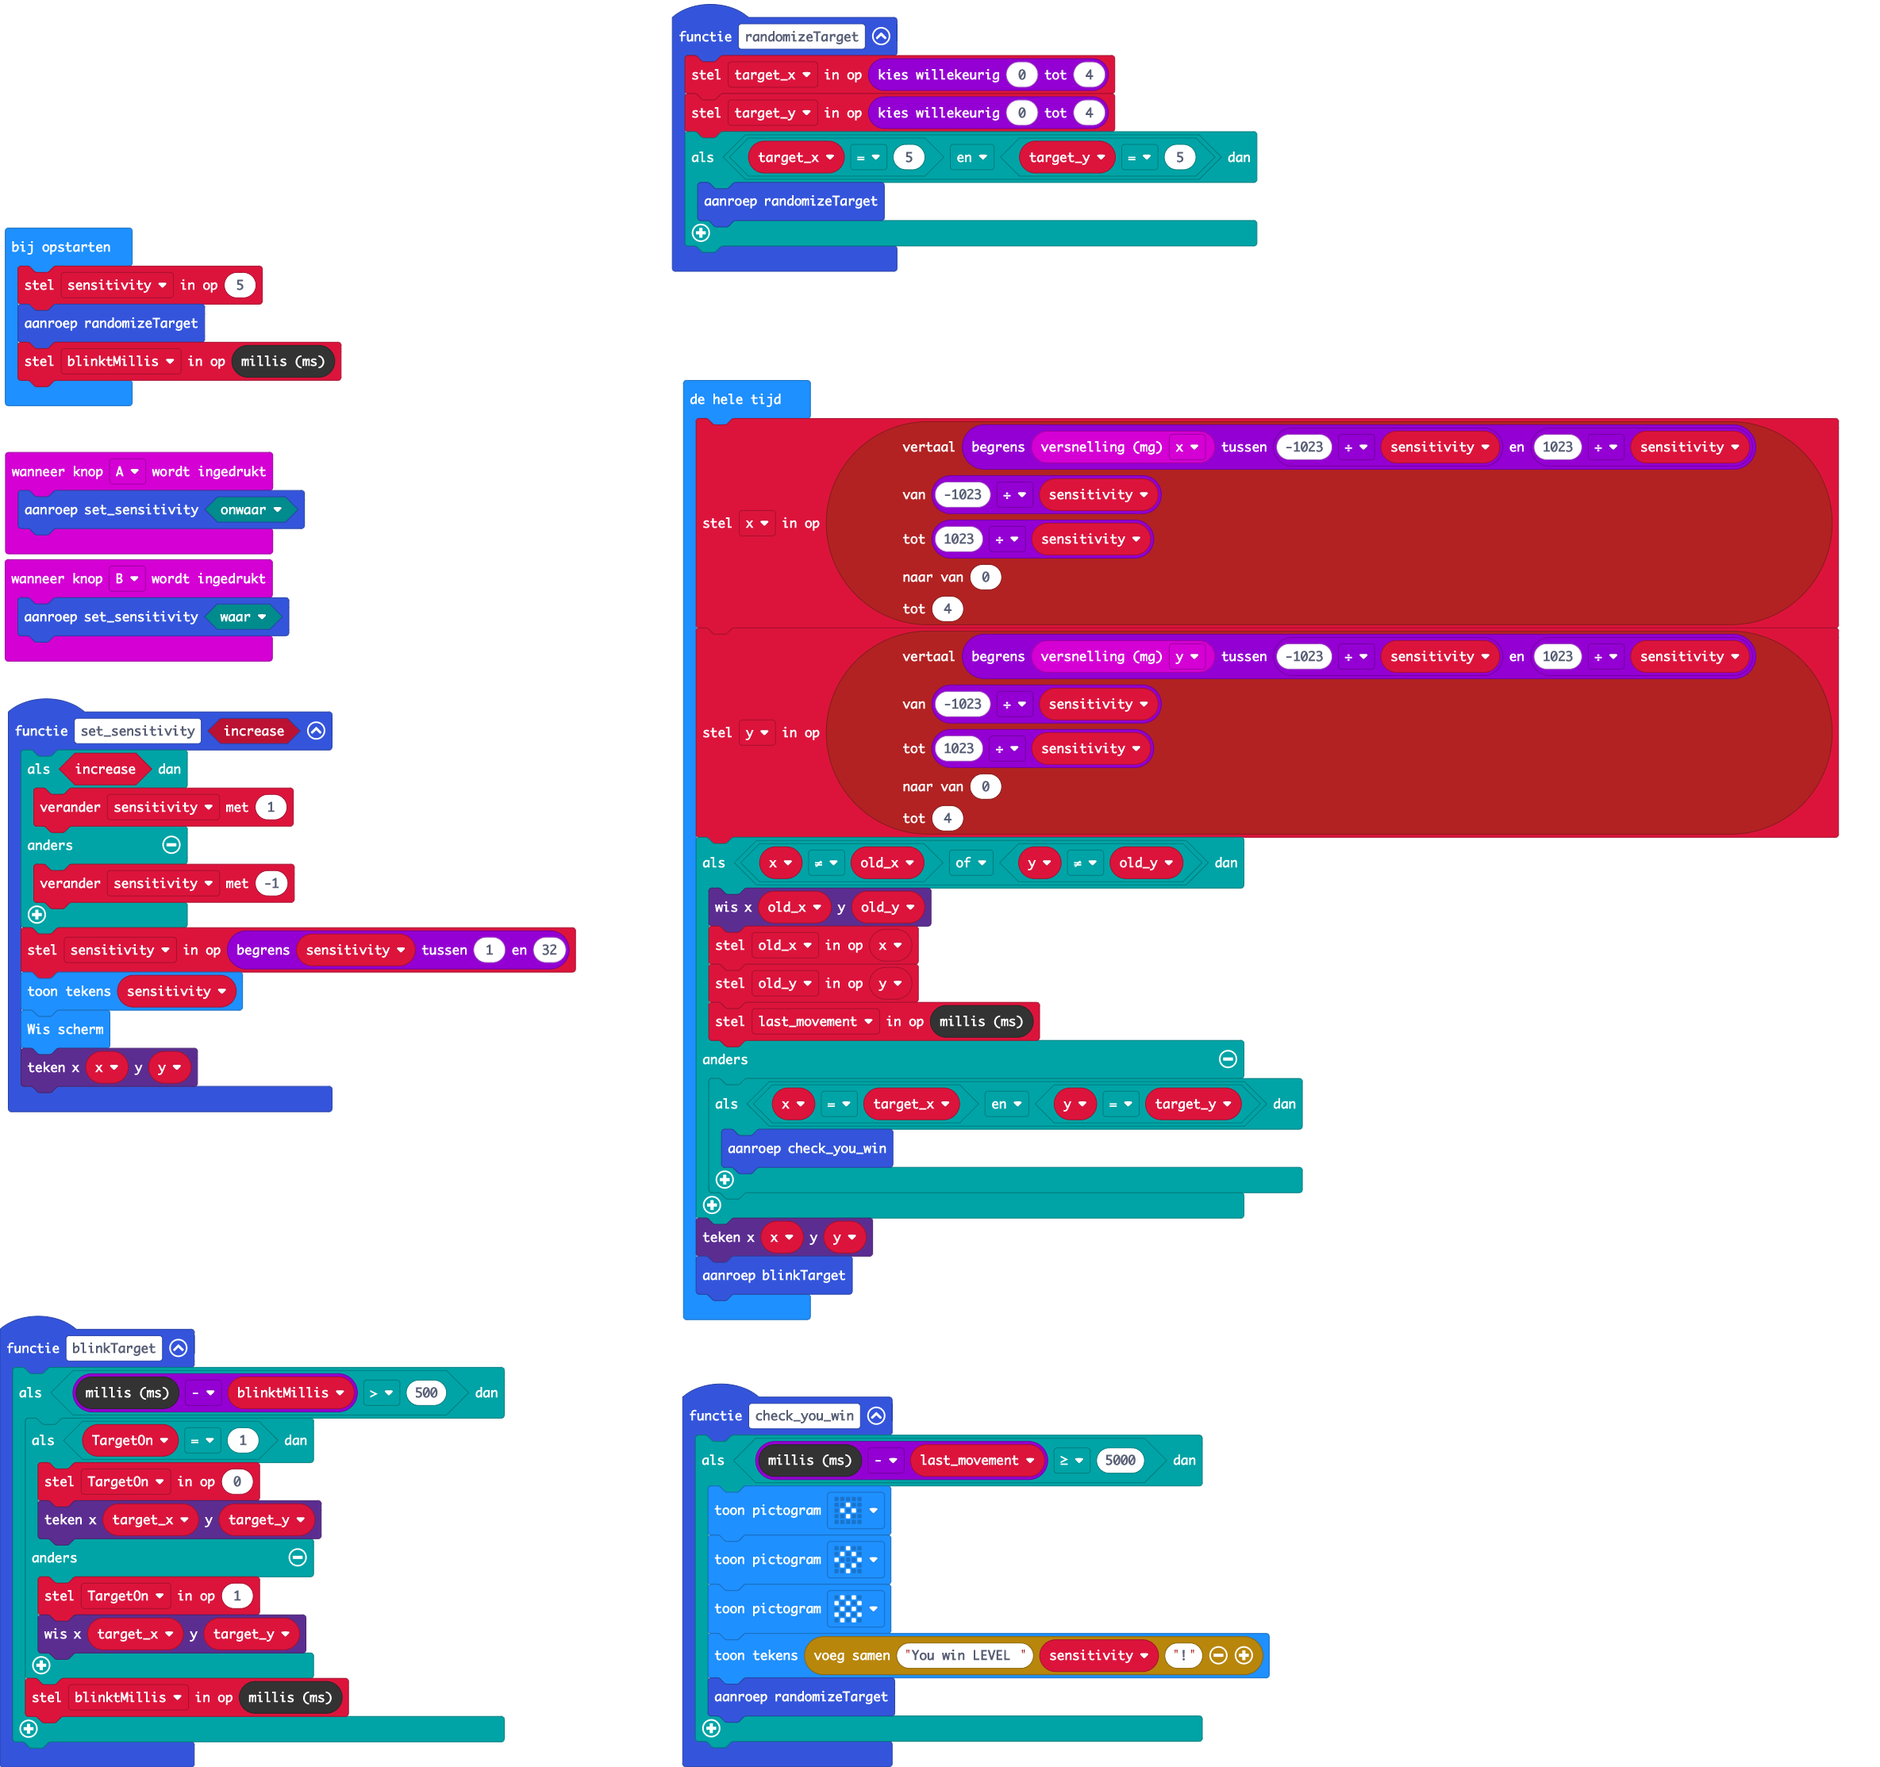
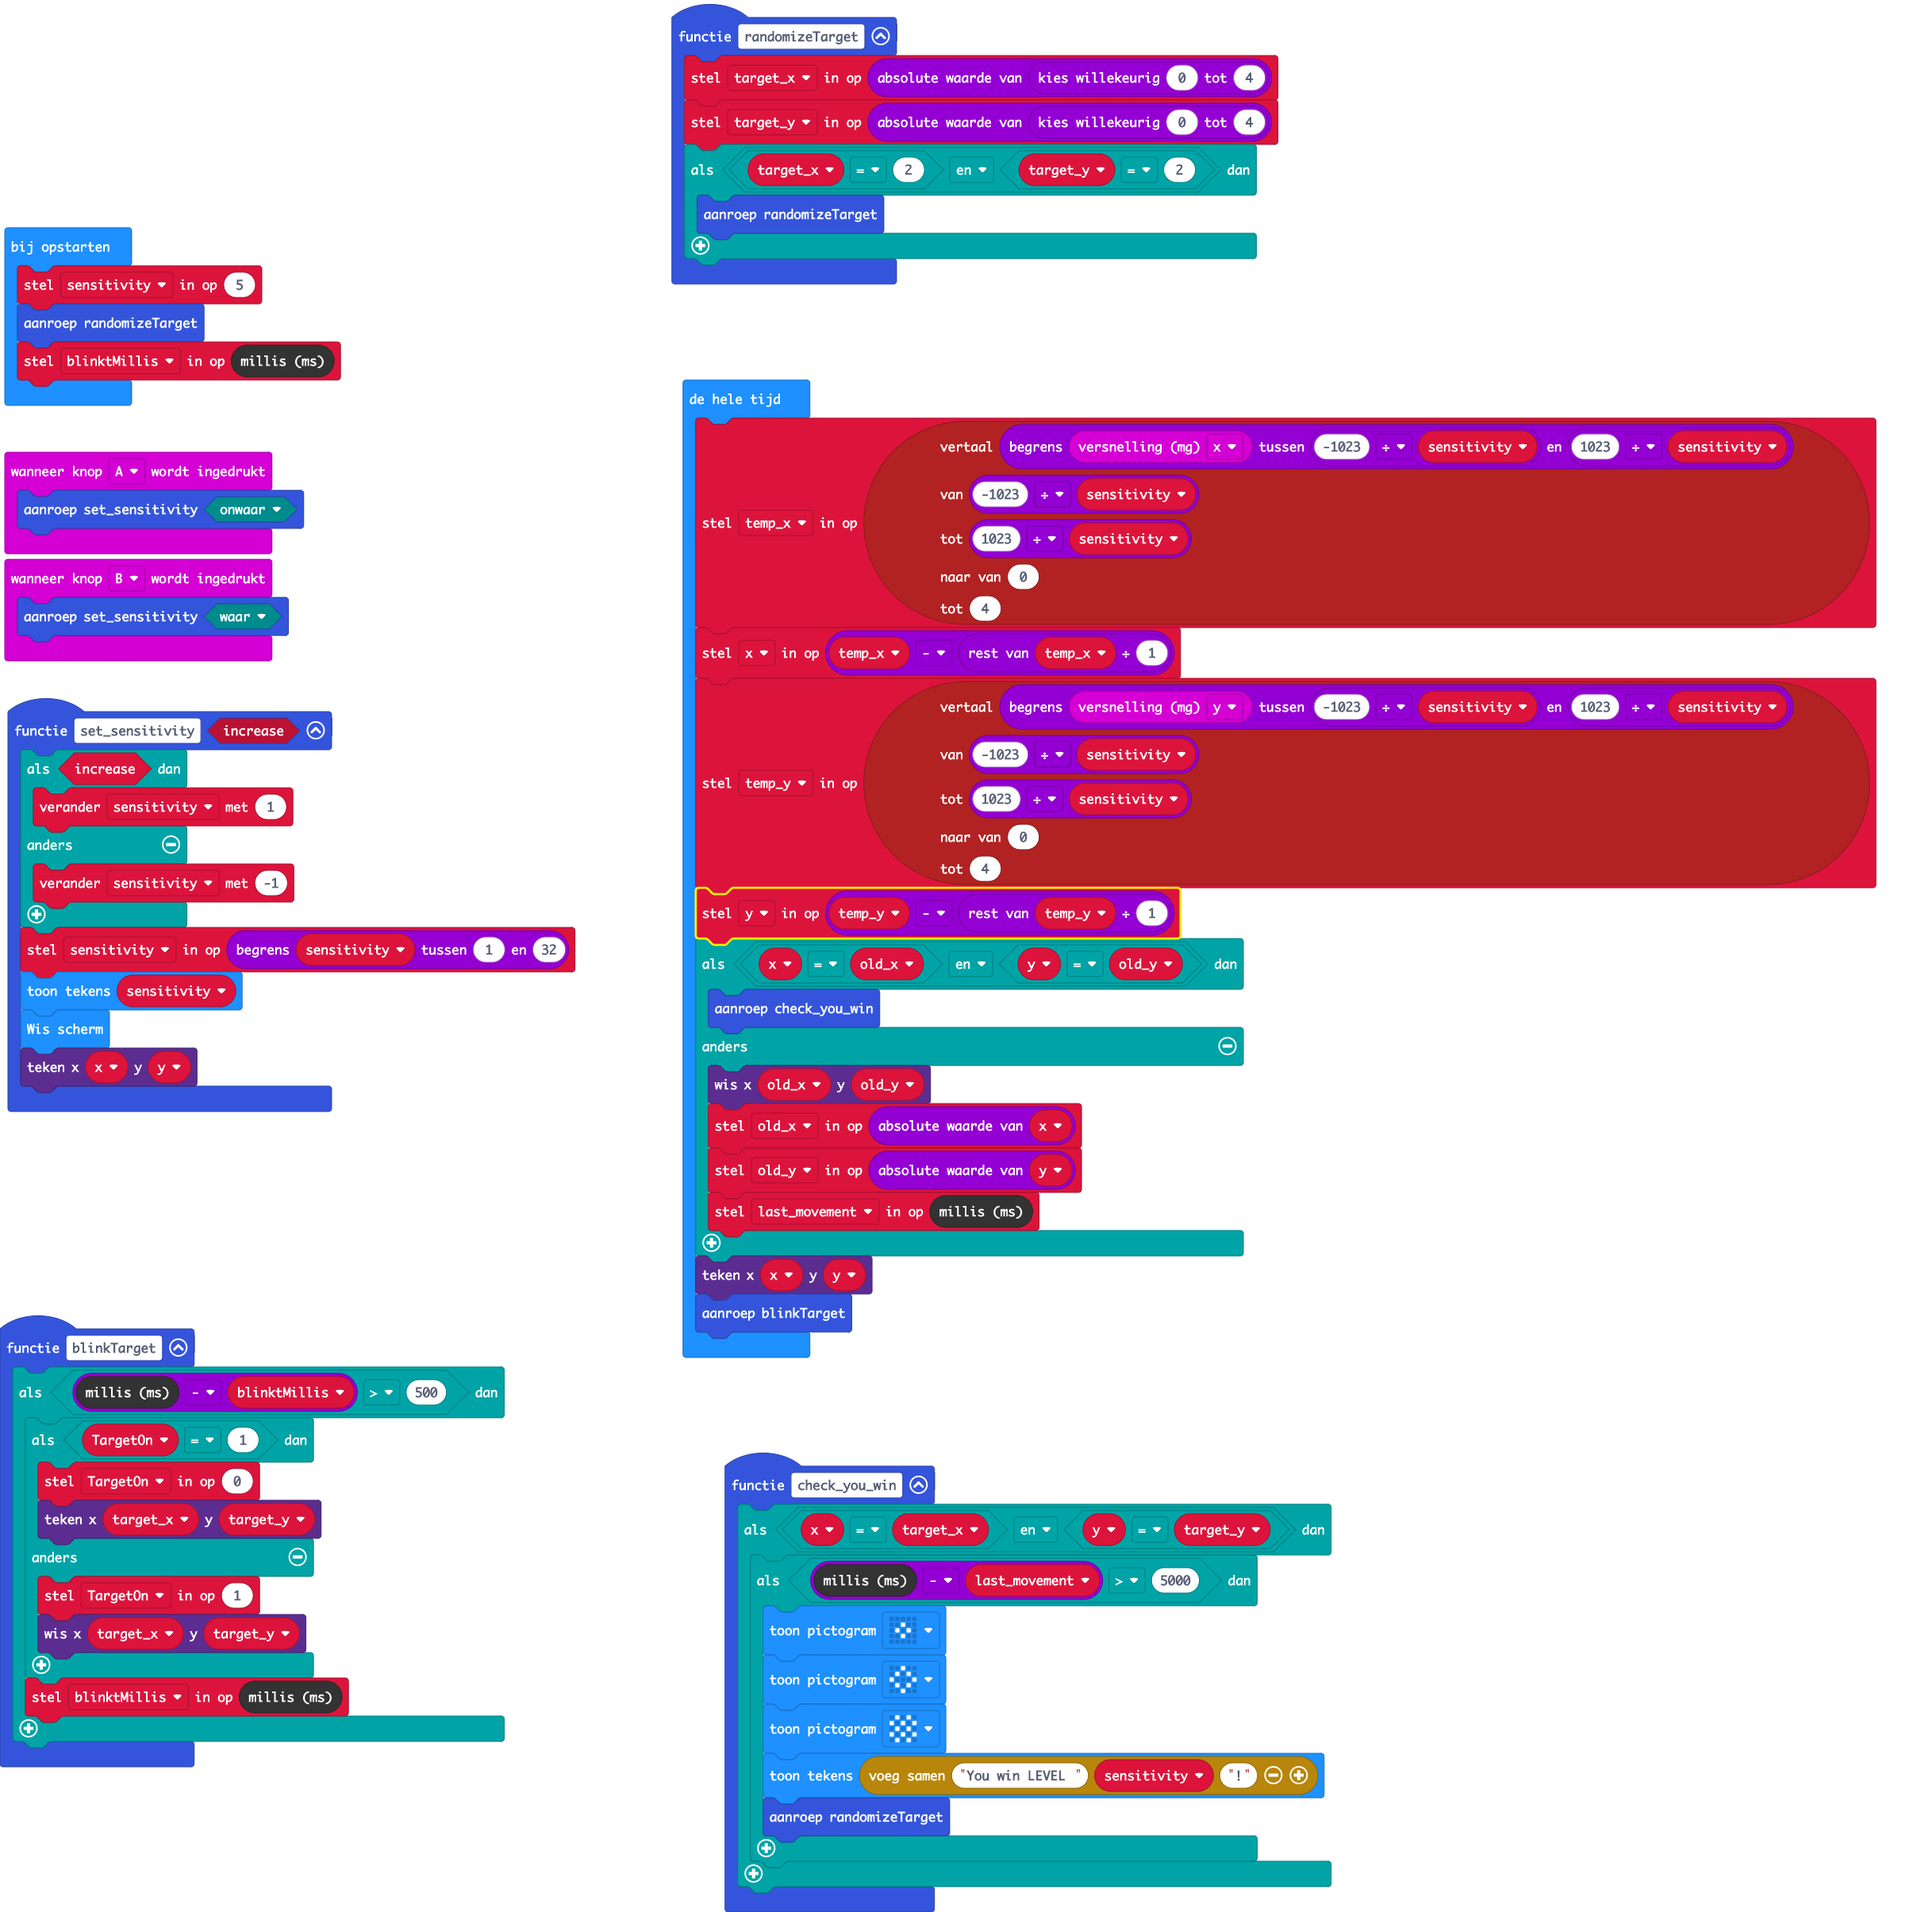
Update main.blocks, main.ts

diff --git a/main.ts b/main.ts
@@ -14,19 +14,21 @@ function blinkTarget () {
     }
 }
 function randomizeTarget () {
-    target_x = randint(0, 4)
-    target_y = randint(0, 4)
-    if (target_x == 5 && target_y == 5) {
+    target_x = Math.abs(randint(0, 4))
+    target_y = Math.abs(randint(0, 4))
+    if (target_x == 2 && target_y == 2) {
         randomizeTarget()
     }
 }
 function check_you_win () {
-    if (control.millis() - last_movement >= 5000) {
-        basic.showIcon(IconNames.SmallDiamond)
-        basic.showIcon(IconNames.Diamond)
-        basic.showIcon(IconNames.Chessboard)
-        basic.showString("You win LEVEL " + sensitivity + "!")
-        randomizeTarget()
+    if (x == target_x && y == target_y) {
+        if (control.millis() - last_movement > 5000) {
+            basic.showIcon(IconNames.SmallDiamond)
+            basic.showIcon(IconNames.Diamond)
+            basic.showIcon(IconNames.Chessboard)
+            basic.showString("You win LEVEL " + sensitivity + "!")
+            randomizeTarget()
+        }
     }
 }
 input.onButtonPressed(Button.B, function () {
@@ -45,9 +47,11 @@ function set_sensitivity (increase: boolean) {
 }
 let old_y = 0
 let old_x = 0
+let temp_y = 0
+let temp_x = 0
+let last_movement = 0
 let y = 0
 let x = 0
-let last_movement = 0
 let target_y = 0
 let target_x = 0
 let TargetOn = 0
@@ -57,29 +61,29 @@ sensitivity = 5
 randomizeTarget()
 blinktMillis = control.millis()
 basic.forever(function () {
-    x = pins.map(
+    temp_x = pins.map(
     Math.constrain(input.acceleration(Dimension.X), -1023 / sensitivity, 1023 / sensitivity),
     -1023 / sensitivity,
     1023 / sensitivity,
     0,
     4
     )
-    y = pins.map(
+    x = temp_x - temp_x % 1
+    temp_y = pins.map(
     Math.constrain(input.acceleration(Dimension.Y), -1023 / sensitivity, 1023 / sensitivity),
     -1023 / sensitivity,
     1023 / sensitivity,
     0,
     4
     )
-    if (x != old_x || y != old_y) {
-        led.unplot(old_x, old_y)
-        old_x = x
-        old_y = y
-        last_movement = control.millis()
+    y = temp_y - temp_y % 1
+    if (x == old_x && y == old_y) {
+        check_you_win()
     } else {
-        if (x == target_x && y == target_y) {
-            check_you_win()
-        }
+        led.unplot(old_x, old_y)
+        old_x = Math.abs(x)
+        old_y = Math.abs(y)
+        last_movement = control.millis()
     }
     led.plot(x, y)
     blinkTarget()
